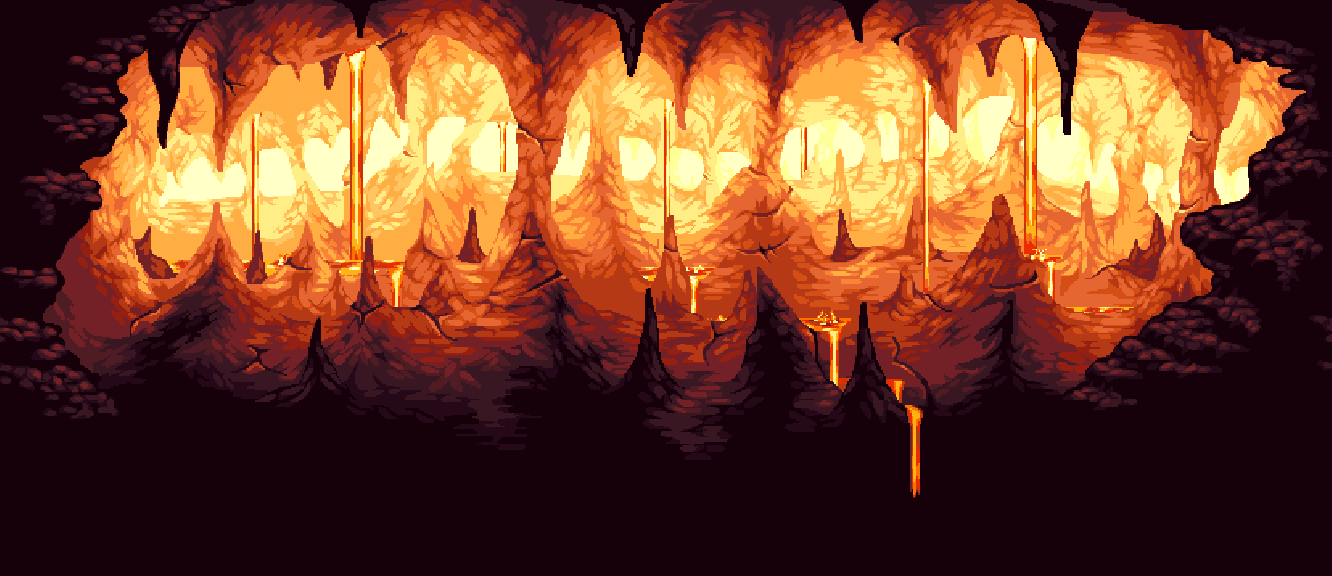
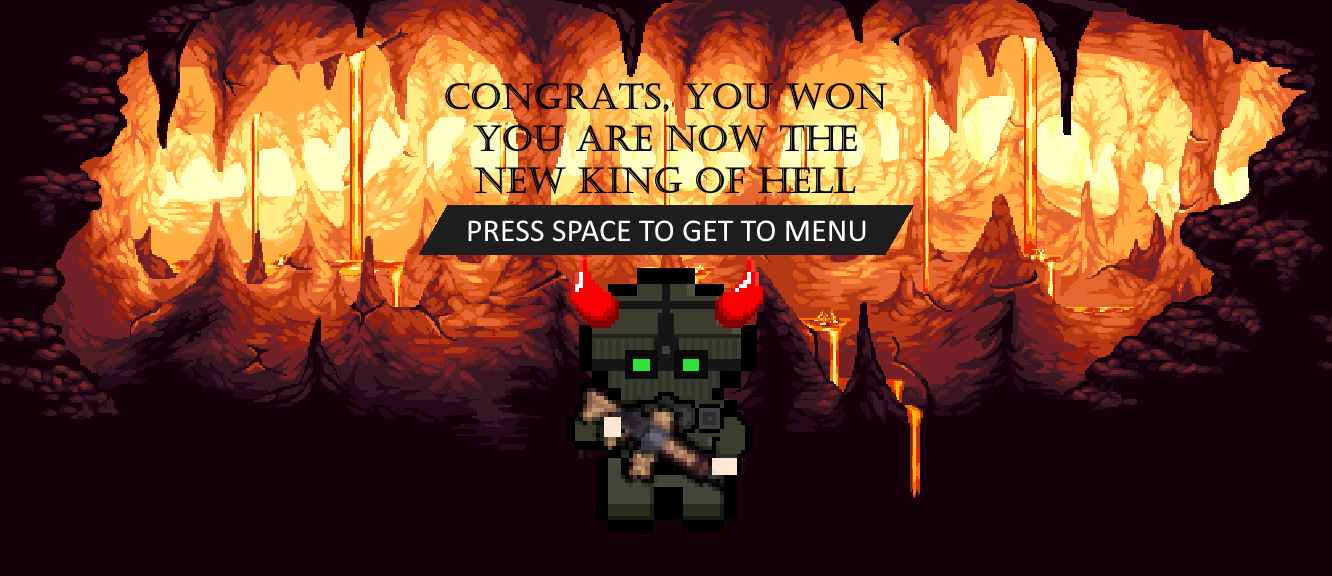
Winscreen

Changed region(s): [[0.3078, 0.2188, 0.708, 0.9062], [0.3078, 0.125, 0.6772, 0.1875]]

diff --git a/src/Model/Game.java b/src/Model/Game.java
@@ -436,7 +436,7 @@ public class Game extends Canvas implements Runnable {
         g2d1.translate(-Camera.getInstance().getX(), -Camera.getInstance().getY());
         winScreenAnimationCounter = ++winScreenAnimationCounter % 80;
         if(winScreenAnimationCounter % 10 == 0) {
-            g.drawImage(winScreenSprites.get(winScreenAnimationCounter/10), 10880, 5760, null);
+            g.drawImage(winScreenSprites.get(winScreenAnimationCounter/10), 10880 - 145 + 23, 5760, null);
         }
         g2d1.translate(Camera.getInstance().getX(), Camera.getInstance().getY());
 

diff --git a/src/Controller/KeyInput.java b/src/Controller/KeyInput.java
@@ -47,6 +47,11 @@ public class KeyInput extends KeyAdapter {
             }
         }
 
+        if(key == KeyEvent.VK_SPACE && Game.getState().equals(GameState.Won)){
+            Game.setState(GameState.MainMenu);
+            MainMenu.setCamera(1088,0);
+        }
+
         if(key == KeyEvent.VK_ESCAPE && Game.getState().equals(GameState.MainMenu)){
             MainMenu.setCamera(1088,0);
         }
